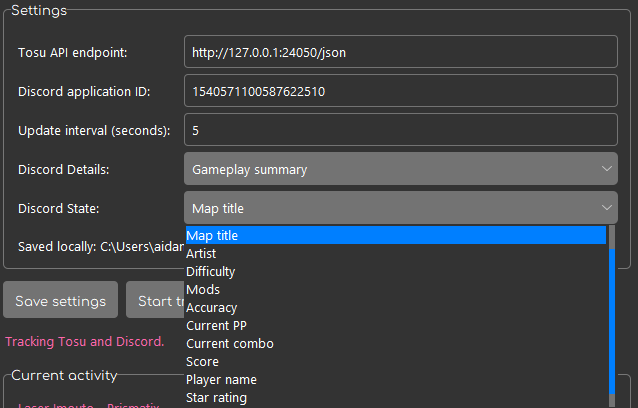
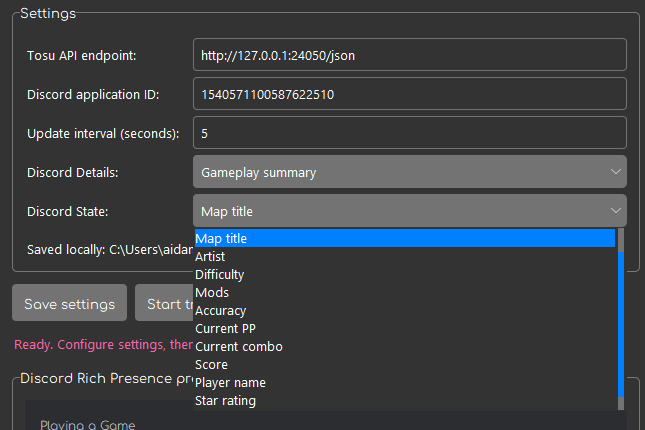
docs(readme): refresh screenshots for v1 UI

Changed region(s): [[0.0, 0.0, 1.0, 1.0]]

diff --git a/README.md b/README.md
@@ -3,11 +3,11 @@
 <h3 align="center"><b><i>Better</i></b> <i>Discord Rich Presence for osu!</i></h3>
 
 <p align="center">
-   <img width="463" height="470" alt="osu!Tracker settings" src="https://github.com/user-attachments/assets/3cd37895-58c2-4632-a701-ecd7749fa334" />
+   <img width="461" height="490" alt="osu!Tracker settings" src="https://github.com/user-attachments/assets/12fb463b-687f-4e2f-8223-e77812f07e57" />
 </p>
 <p align="center">
    <img width="322" height="135" alt="osu!Tracker Discord Rich Presence" src="https://github.com/user-attachments/assets/c10620ca-b122-4155-8367-75517437976a" />
-   <img width="308" height="139" alt="osu!Tracker activity display" src="https://github.com/user-attachments/assets/6303cf7d-483d-4dbe-94da-5c8977f088af" />
+   <img width="336" height="141" alt="osu!Tracker activity display" src="https://github.com/user-attachments/assets/20f8d085-e7a8-4f6c-b970-72b928f9e0e0" />
 </p>
 
 <p align="center">
